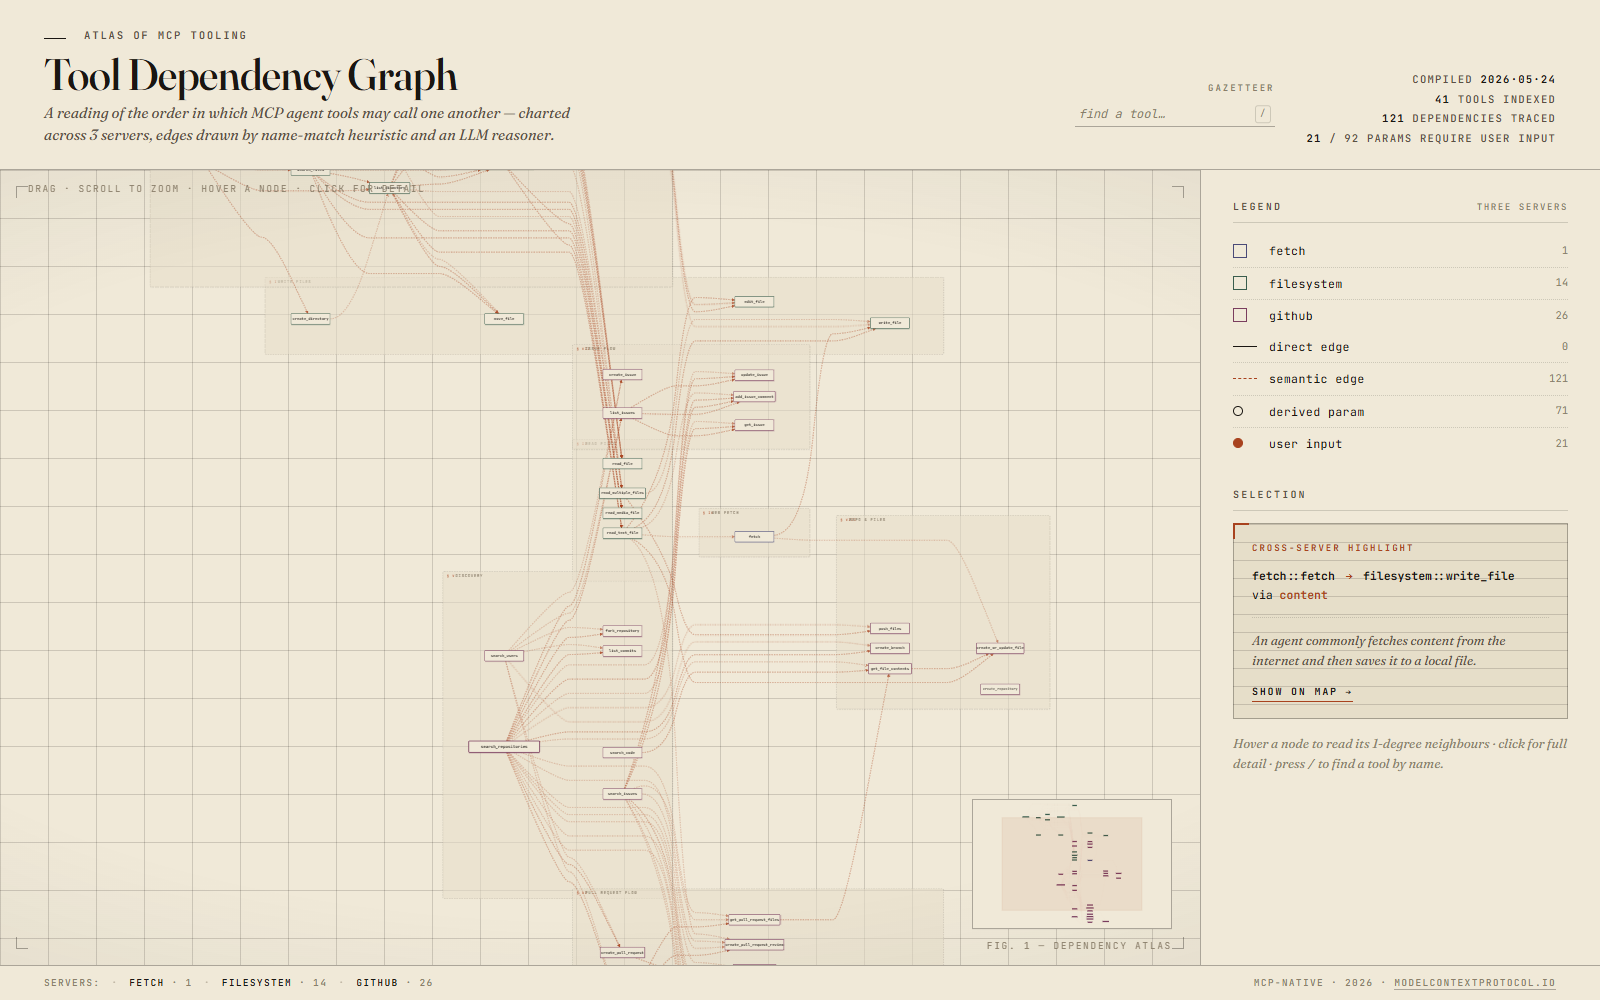
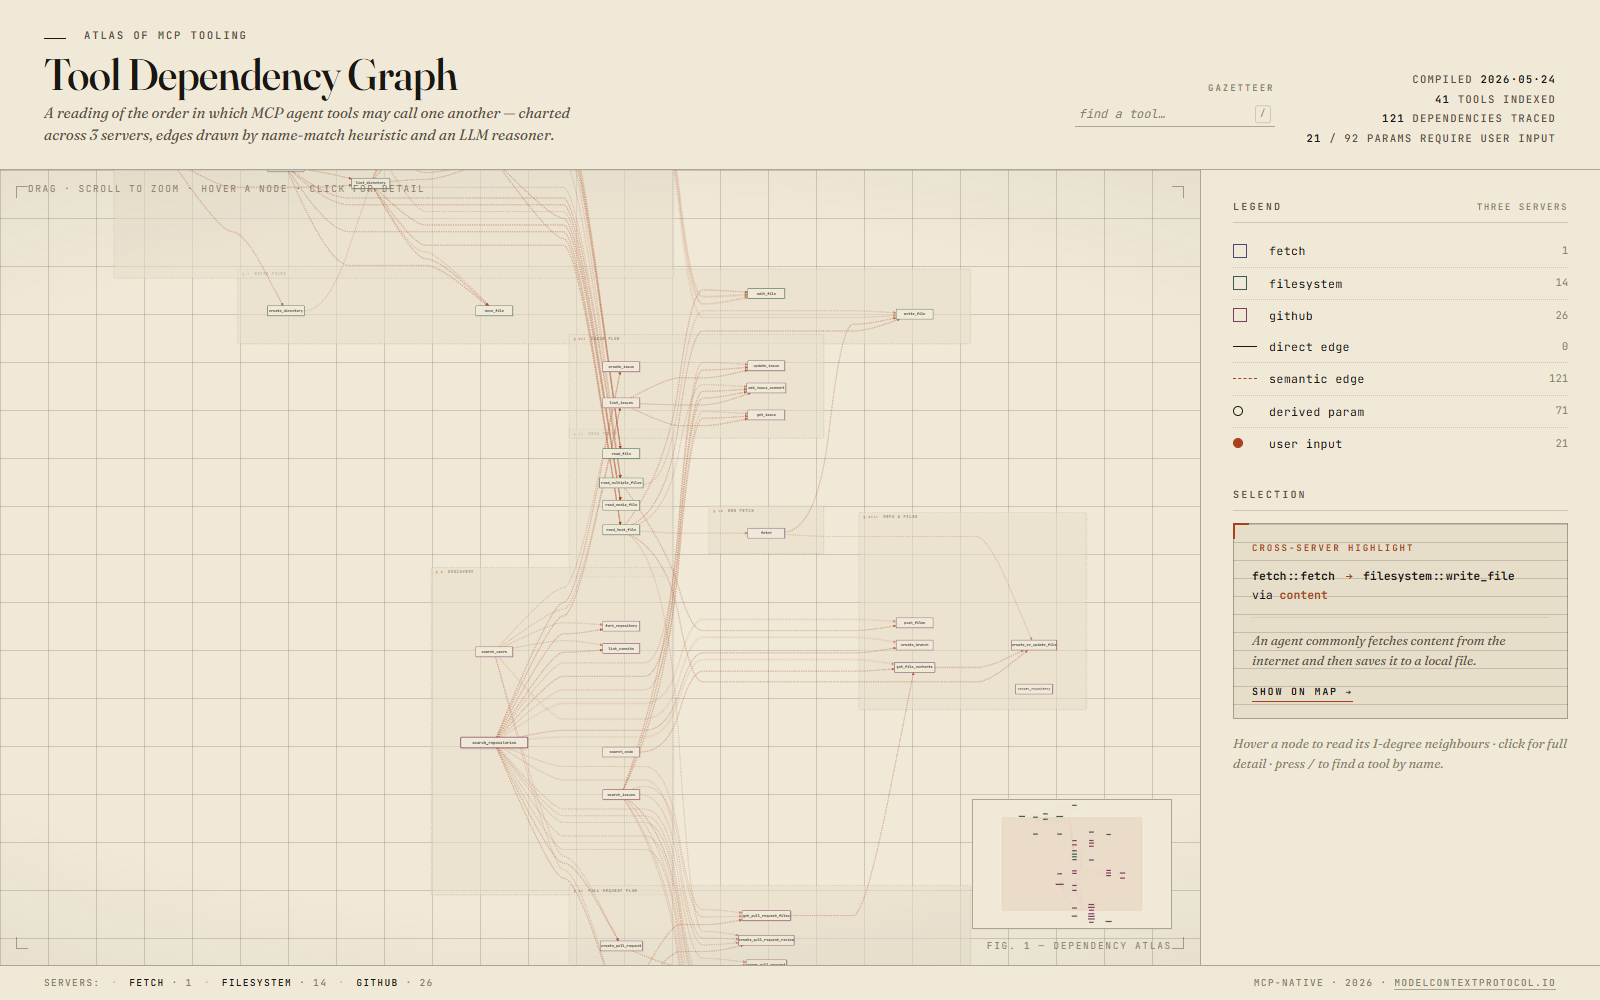
Fix region label overlap, breathe out cluster spacing
- Region header now uses one <text> with two <tspan>s and an
  explicit dx gap so the district label always sits a fixed
  distance after the numeral (was overlapping for wider numerals
  like VIII and IV with a hardcoded x offset).
- Bumped dagre nodesep 26 -> 36, ranksep 110 -> 140, and added
  cluster paddingX/Y so adjacent districts have visual breathing
  room.

diff --git a/index.html b/index.html
@@ -954,15 +954,23 @@
       const widthFor = (label, mult) => Math.max(110, Math.min(260, (28 + label.length * 6.4) * mult));
 
       const dg = new dagre.graphlib.Graph({ compound: true });
-      dg.setGraph({ rankdir: 'LR', nodesep: 26, ranksep: 110, marginx: 50, marginy: 50 });
+      dg.setGraph({ rankdir: 'LR', nodesep: 36, ranksep: 140, marginx: 50, marginy: 50 });
       dg.setDefaultEdgeLabel(() => ({}));
 
       // Create cluster (region) nodes first, then attach members.
+      // paddingX/Y give dagre room to draw the cluster rect around the children;
+      // we draw our own labelled rect on top, so this just buys visual breathing room
+      // between adjacent districts.
       const activeRegions = new Set();
       G.nodes.forEach(n => activeRegions.add(regionOf(n.id)));
       activeRegions.forEach(rk => {
         if (rk === 'other') return;
-        dg.setNode('region:' + rk, { label: regionByKey.get(rk)?.label || rk, clusterLabelPos: 'top' });
+        dg.setNode('region:' + rk, {
+          label: regionByKey.get(rk)?.label || rk,
+          clusterLabelPos: 'top',
+          paddingX: 24,
+          paddingY: 28,
+        });
       });
 
       G.nodes.forEach(n => {
@@ -998,7 +1006,6 @@
       const INITIAL_SCALE = 1.4;
 
       // ── REGION boxes + editorial labels ───────────────
-      const REGION_LABEL_OFFSET = 10;  // px above region rect
       activeRegions.forEach(rk => {
         if (rk === 'other') return;
         const r = dg.node('region:' + rk);
@@ -1022,19 +1029,24 @@
         rect.setAttribute('rx', 4);
         g.appendChild(rect);
 
-        const numT = document.createElementNS('http://www.w3.org/2000/svg', 'text');
-        numT.setAttribute('x', x + 12);
-        numT.setAttribute('y', y + 16);
-        numT.setAttribute('class', 'region-num');
-        numT.textContent = '§ ' + meta.num;
-        g.appendChild(numT);
+        // Header: one <text> with two <tspan>s so the label always sits
+        // a fixed gap after the (variable-width) numeral instead of at a
+        // hardcoded x — fixes "§ VIII" + "REPO" running together.
+        const header = document.createElementNS('http://www.w3.org/2000/svg', 'text');
+        header.setAttribute('x', x + 14);
+        header.setAttribute('y', y + 18);
 
-        const lbl = document.createElementNS('http://www.w3.org/2000/svg', 'text');
-        lbl.setAttribute('x', x + 36);
-        lbl.setAttribute('y', y + 16);
-        lbl.textContent = meta.label;
-        g.appendChild(lbl);
+        const numTspan = document.createElementNS('http://www.w3.org/2000/svg', 'tspan');
+        numTspan.setAttribute('class', 'region-num');
+        numTspan.textContent = '§ ' + meta.num;
+        header.appendChild(numTspan);
 
+        const lblTspan = document.createElementNS('http://www.w3.org/2000/svg', 'tspan');
+        lblTspan.setAttribute('dx', '14');
+        lblTspan.textContent = meta.label;
+        header.appendChild(lblTspan);
+
+        g.appendChild(header);
         regionsLayer.appendChild(g);
       });
 
